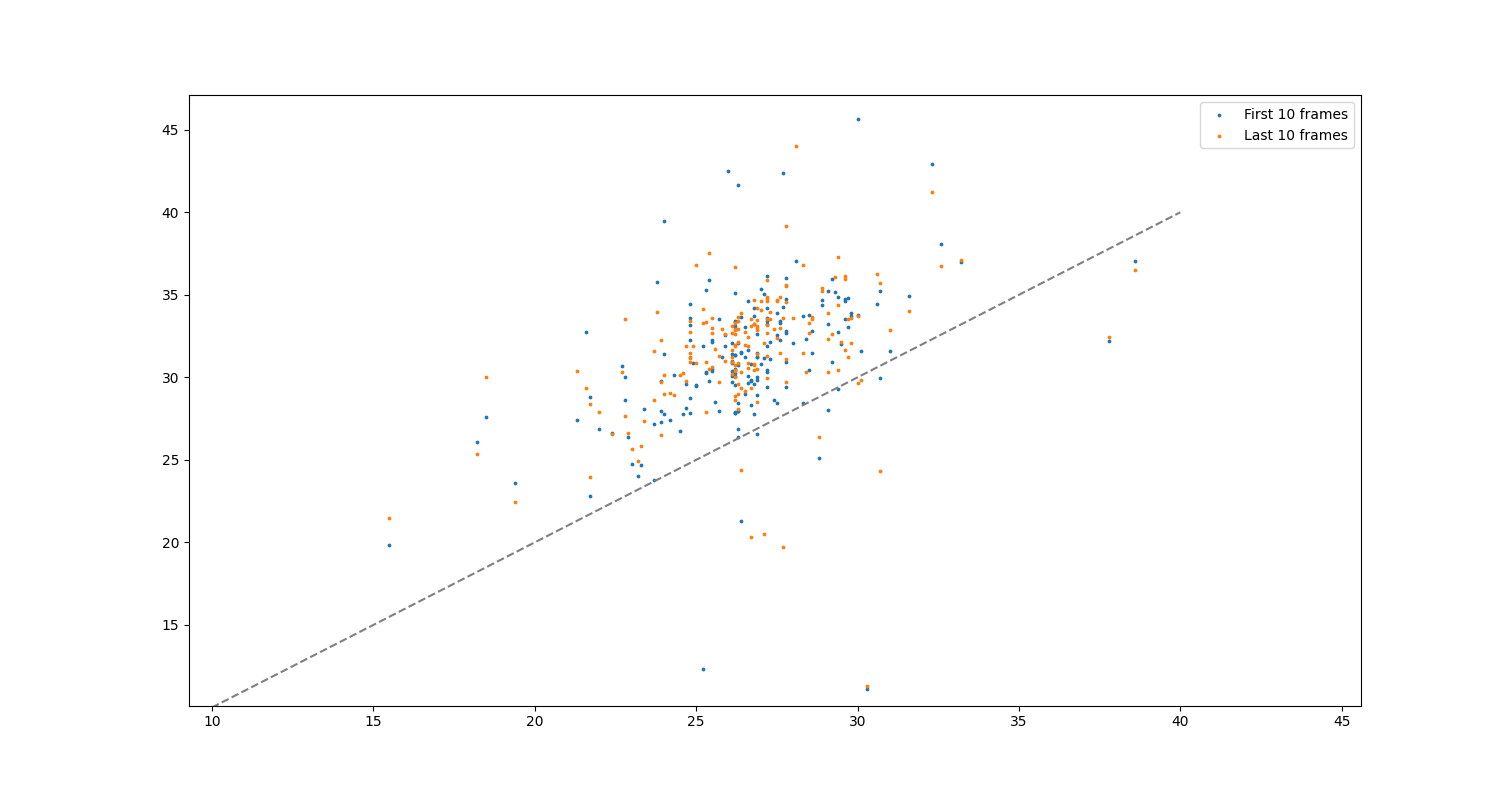
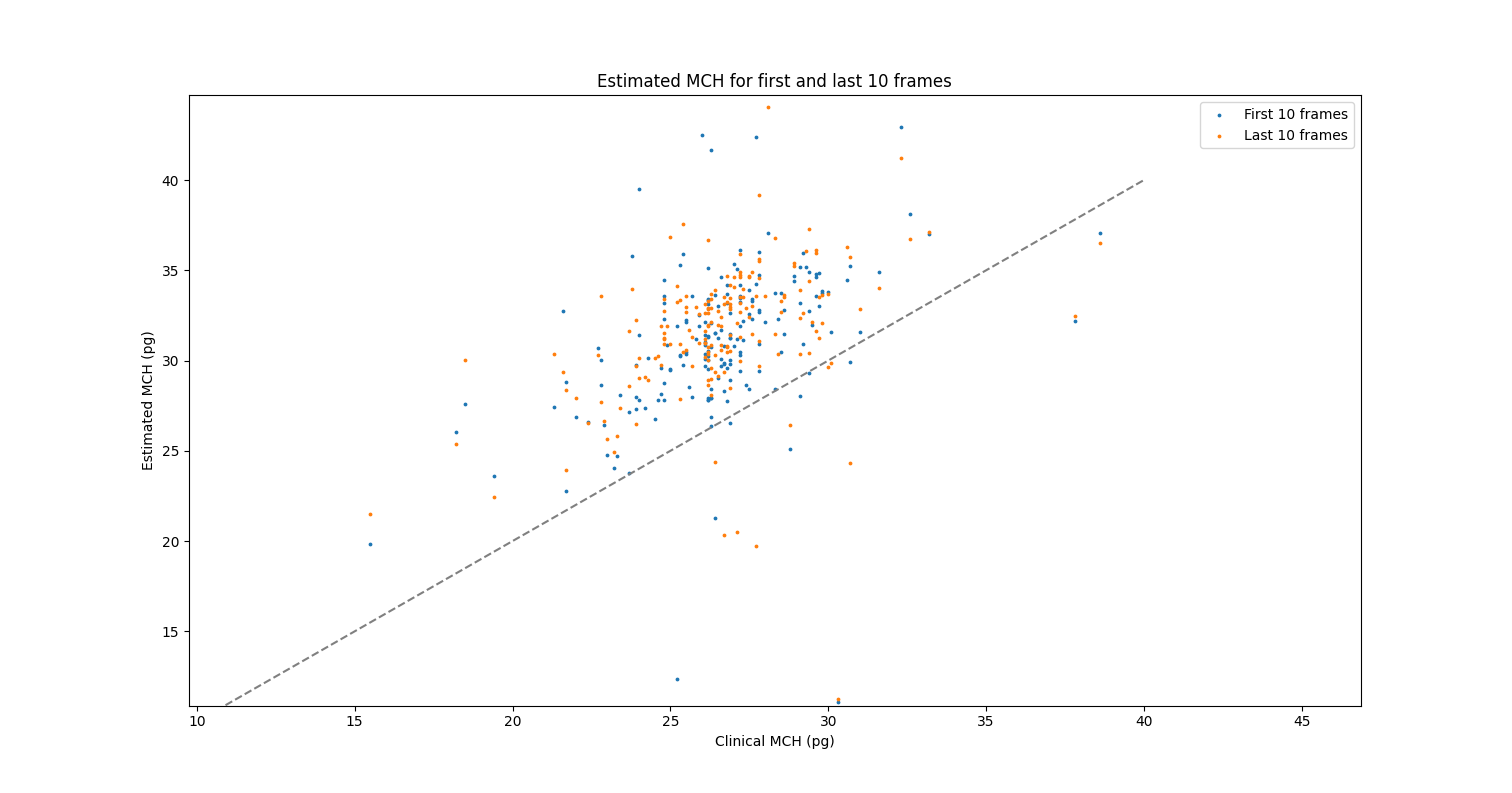
Updated MCH fig with axis labels and title

diff --git a/lfm_data_utilities/hb_quantification/sandbox/start_v_end_mch.py b/lfm_data_utilities/hb_quantification/sandbox/start_v_end_mch.py
@@ -53,6 +53,11 @@ count_filt = img_count == 100
 plt.scatter(mch_clinical[count_filt], mch_start[count_filt], s=3, label='First 10 frames')
 plt.scatter(mch_clinical[count_filt], mch_end[count_filt], s=3, label="Last 10 frames")
 
+plt.title("Estimated MCH for first and last 10 frames")
+plt.xlabel("Clinical MCH (pg)")
+plt.ylabel("Estimated MCH (pg)")
+
+
 # Plot cases with incomplete data collection
 # plt.scatter(mch_clinical[~count_filt], mch_start[~count_filt], color='r', s=1, marker='+')
 # plt.scatter(mch_clinical[~count_filt], mch_end[~count_filt], color='b', s=1, marker='+')
